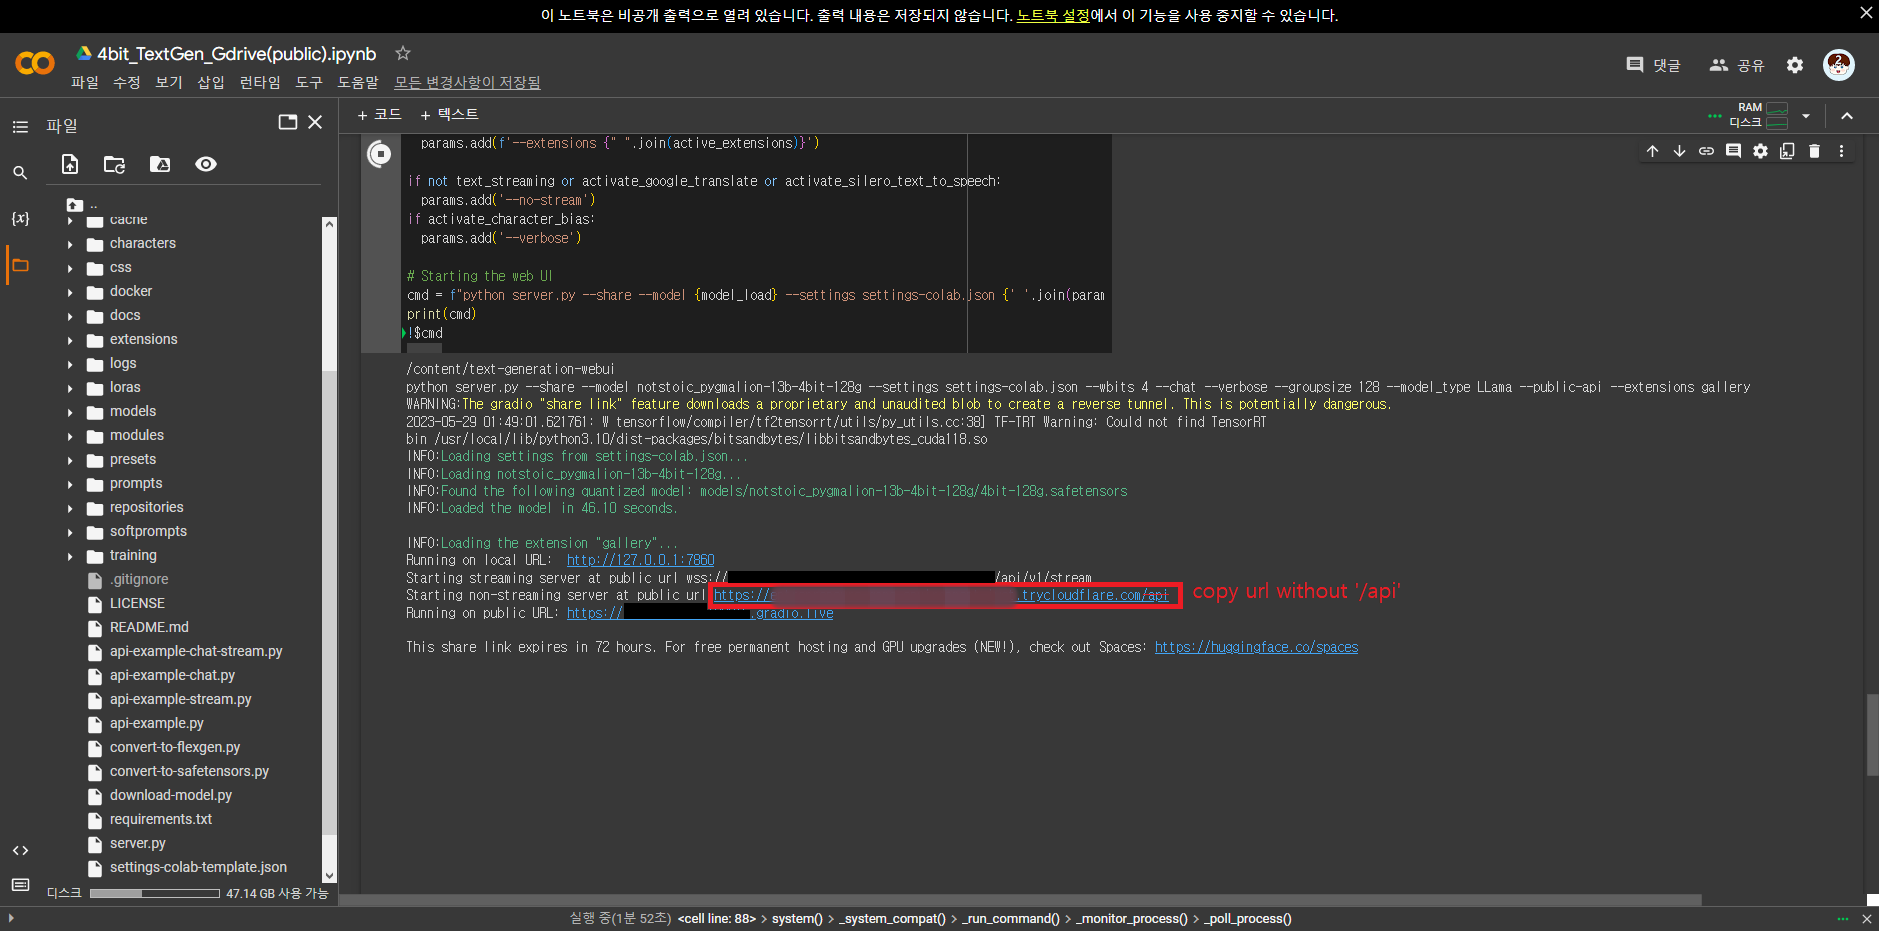
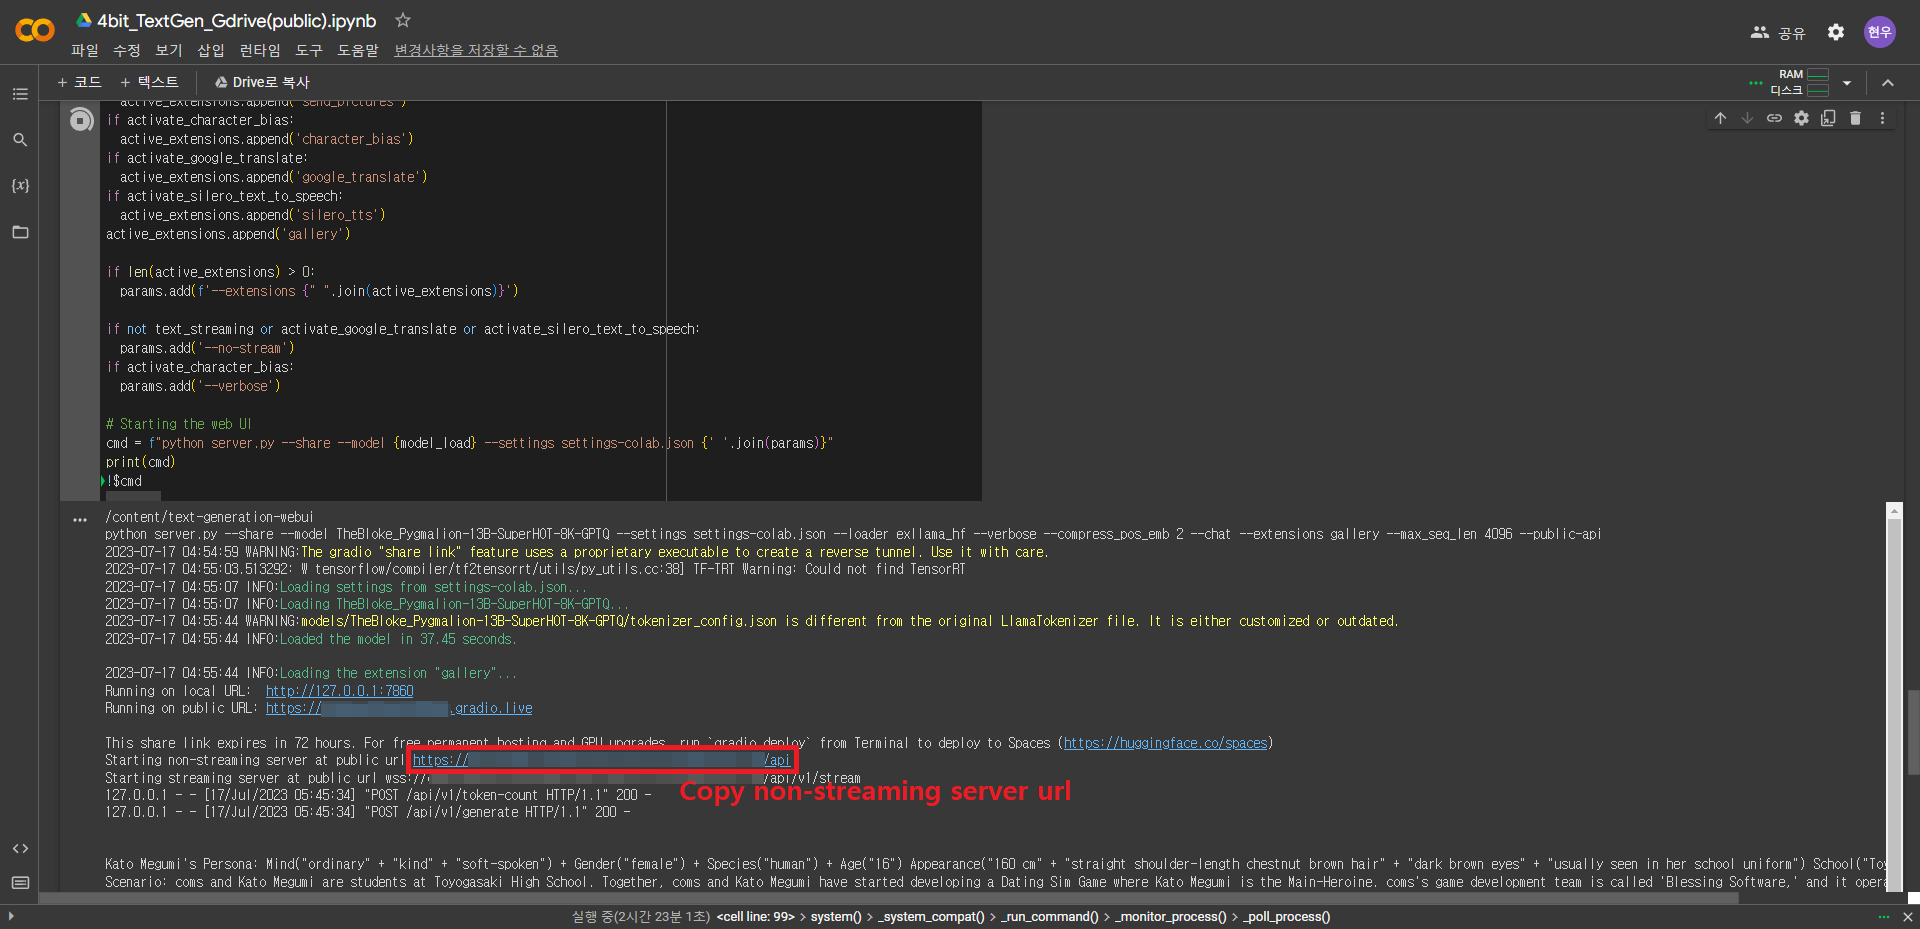
[Update] google colab api_url screenshot
[Update] paste api screenshot

Update README.md

diff --git a/README.md b/README.md
@@ -85,13 +85,8 @@ Also You don't need to follow (Local) steps below**
   ([Google Colab Link](https://colab.research.google.com/drive/1VwEONZNajP4WGwJ8bw55MODHQ_yq1hpJ?usp=sharing))
   ![](docs/screenshots/ColabApiServerUrl.png?raw=true)
   
-  In .env setting file, Copy and Paste the Url to  
-  
-  ```diff
-  TEXTGENERATION_URL =                #Paste Url Here (no need to add Quotation mark)
-  ```
-  
-  Check more information in [Env](https://github.com/HWcomss/Blessing-AI/blob/main/docs/ENV.md#textgen-api-url) document  
+  Copy and Paste the Url to Blessing-AI program
+  ![](docs/screenshots/Blessing_AI_Api_Url_Paste.png?raw=true)
   
   Also if you want to use other Cloud services or Language models, Check [this video](https://www.youtube.com/watch?v=TP2yID7Ubr4&t=2s) by Aitrepreneur
 
